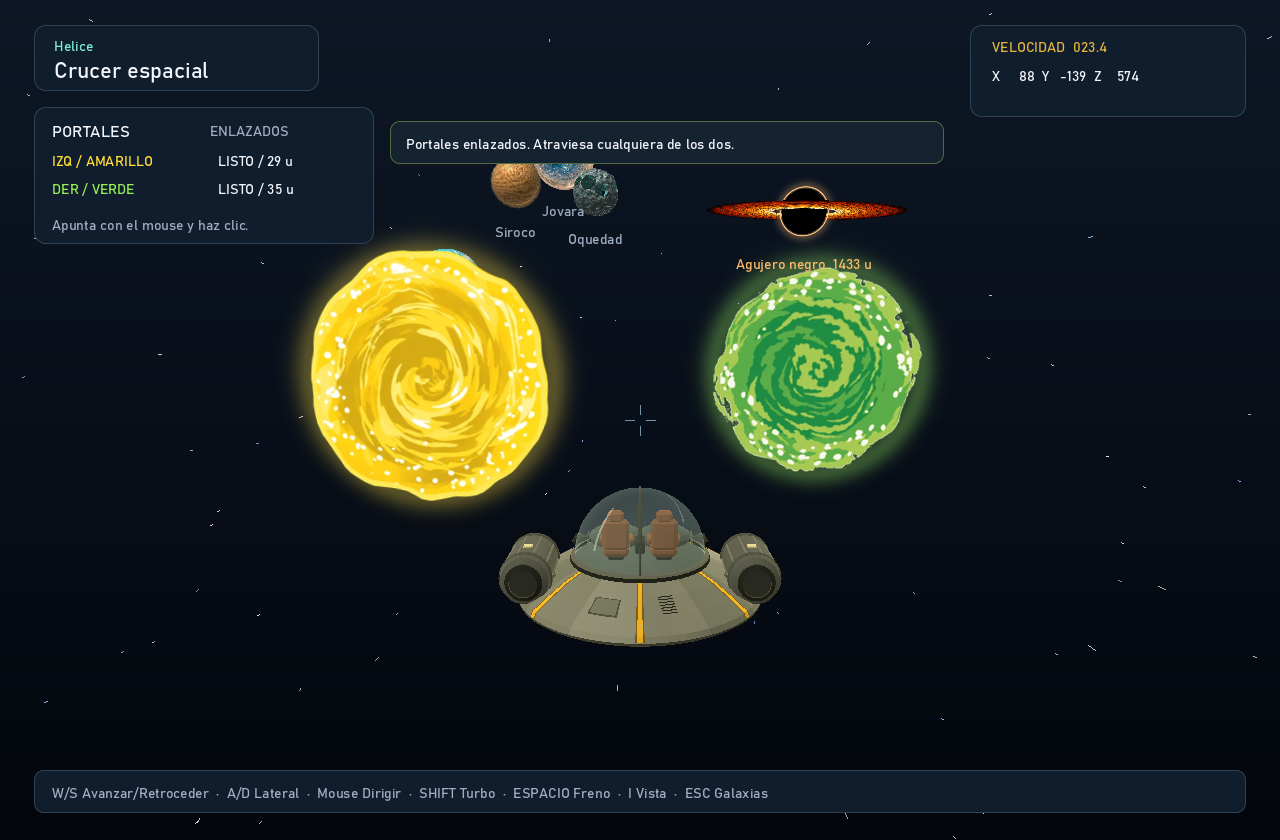
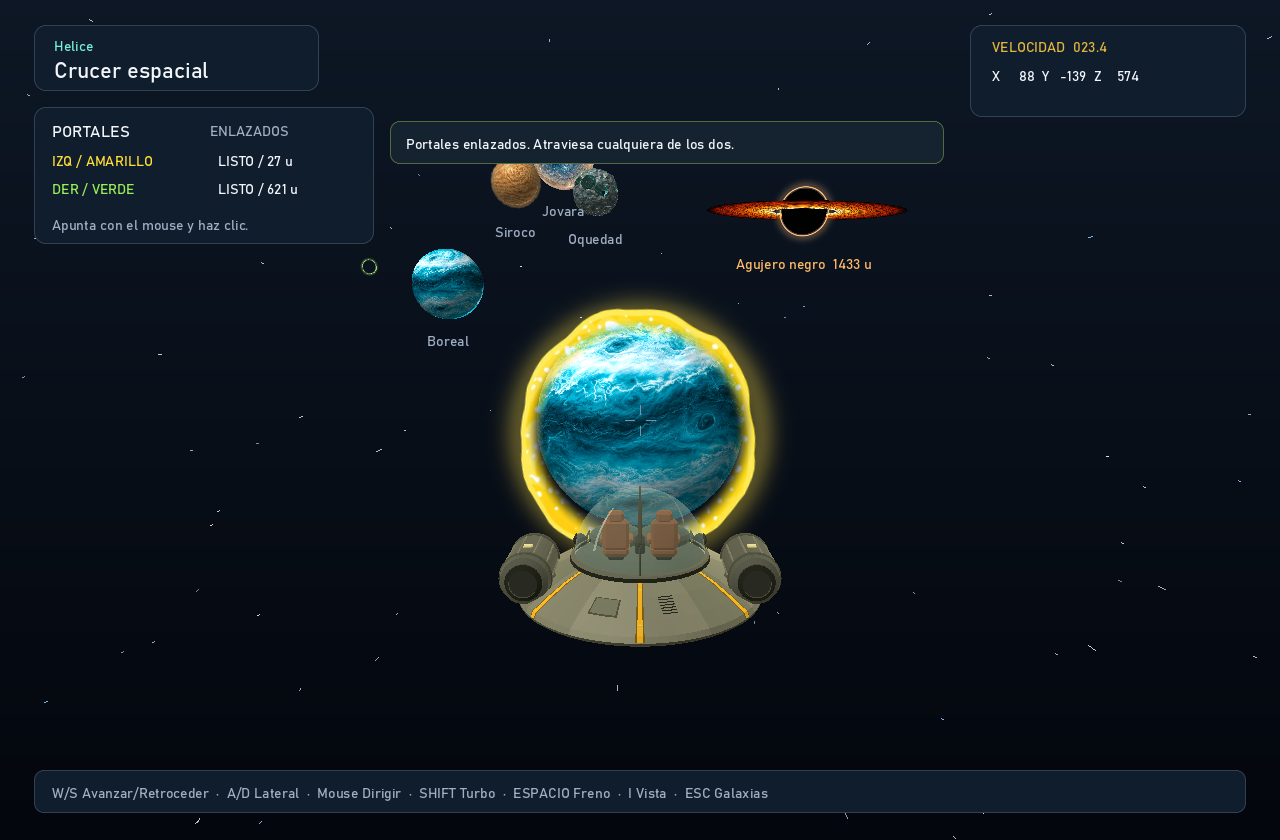
docs: actualiza la vista del destino y su captura de referencia

Changed region(s): [[0.2188, 0.2786, 0.75, 0.65]]

diff --git a/assets/portals/README.md b/assets/portals/README.md
@@ -1,6 +1,6 @@
 # Portales de Crucer espacial
 
-![Portales amarillo y verde en vuelo](previews/portales.png)
+![Boreal visto a través del portal amarillo](previews/portales.png)
 
 Crucer espacial es la única nave con esta habilidad. Durante el vuelo:
 
@@ -28,6 +28,27 @@ evita saltarse un portal al usar turbo o tener pocos FPS. Un margen de salida y
 0.4 segundos de espera evitan rebotes inmediatos. La distancia entre ambos portales
 se salta sin comprobar colisiones ni gravedad sobre ese trayecto inexistente.
 Las trayectorias reales de entrada y salida mantienen sus comprobaciones normales.
+
+## Vista del destino
+
+Cuando los dos colores están enlazados, cada portal funciona como una ventana
+hacia su salida. Muestra los planetas y sus superficies animadas, el cielo,
+asteroides, nubes de polvo, agujero negro y la nave si aparece en ese campo de
+visión. La perspectiva cambia al acercarse, desplazarse o girar ante el portal,
+también al mirarlo desde su cara posterior. Los bordes amarillo y verde mantienen
+las imágenes y animaciones de referencia. Un portal sin pareja conserva su remolino.
+
+La cámara virtual usa la misma transformación de posición y dirección que el
+teletransporte. El plano de salida recorta la geometría anterior al destino y la
+imagen se compone con la profundidad del portal de entrada para respetar los
+objetos que lo tapan. Ambas escenas usan el mismo instante de la simulación;
+renderizar la ventana no mueve la nave ni avanza la física.
+
+Cada vista remota solo renderiza el rectángulo que ocupa el portal en pantalla,
+con sus rayos originales y resolución completa. Los portales fuera del encuadre
+no generan esa vista. Se usa un nivel de vista remota: si se ve otro portal dentro
+de la ventana, ese portal muestra su remolino para limitar el costo de la recursión.
+La ventana no duplica el HUD, la mira ni los mensajes del vuelo.
 
 Los portales se conservan al inspeccionar la nave y su animación se pausa junto
 con el vuelo. Se eliminan al cambiar a otra nave, volver a destinos, iniciar otro
@@ -57,18 +78,28 @@ python scripts/prepare_portals.py --yellow "ruta/Portal_amarillo.webp" --green "
 
 ```powershell
 cargo run --release -- --render-flight output/portales.png --ship 3 --portal-demo --time 0.35
+cargo run --release -- --render-flight output/portal-boreal.png --ship 3 --portal-demo --target boreal --time 0.35
+cargo run --release -- --render-flight output/portal-kepler.png --ship 3 --galaxy 2 --portal-demo --target kepler-186f --time 0.35
 ```
 
 `--portal-demo` coloca ambos portales separados ante la cámara para revisar su
 aspecto con el mismo renderizador del juego. Solo acepta `--render-flight --ship 3`
 y no se combina con las opciones de inicio cercano a planetas o al agujero negro.
+Con `--target nombre` sitúa la salida cerca de ese planeta y centra la entrada
+ante la cámara, para revisar la vista del destino. El planeta debe existir en
+la galaxia seleccionada. Esta opción de demostración no cambia la colocación
+normal mediante clics.
 
 El renderizado intersecta cada píxel con el plano 3D del portal, calcula su UV en
 perspectiva, interpola color y alfa y compara la profundidad con los planetas y
 la nave. Un resplandor suave rodea los discos y un destello breve acompaña el salto.
-El interior usa el remolino de las imágenes; no muestra una cámara de la salida.
+El interior enlazado compone la cámara de salida y mezcla suavemente la imagen
+con el borde luminoso; los dos colores muestran su destino respectivo.
 
 `cargo test` comprueba cruce con turbo a 10 y 60 FPS, conservación de rapidez y
 rumbo, las dos caras y colores, límites de la abertura, recolocación, separación,
 espera entre saltos, bloqueo de salida, limpieza al reaparecer, cuadros del atlas,
-animación, perspectiva y oclusión por geometría en primer plano.
+animación, perspectiva y oclusión por geometría en primer plano. Las pruebas de
+vista del destino comprueban posición, orientación oblicua, paralaje, rayos del
+recorte, UV en el plano de salida, ambas caras, profundidad de composición y la
+animación real de Boreal sin avanzar el estado del vuelo.

diff --git a/README.md b/README.md
@@ -96,8 +96,11 @@ La cámara está detrás y ligeramente por encima de la nave, mirando de la cola
 para colocar el amarillo o derecho para el verde, a 32 unidades frente a la proa.
 Coloca los dos en lugares separados y atraviesa cualquiera para salir por el otro,
 conservando la rapidez y adaptando el rumbo a la salida. Otro clic recoloca solo
-ese color. El HUD muestra si están enlazados. Se eliminan al cambiar de nave,
-regresar a destinos o reaparecer; inspeccionar pausa y conserva los portales.
+ese color. Cuando están enlazados, el interior muestra en tiempo real el mundo
+desde la salida, con perspectiva que responde al movimiento de la cámara y el
+borde animado de cada color. El HUD muestra si están enlazados. Se eliminan al
+cambiar de nave, regresar a destinos o reaparecer; inspeccionar pausa y conserva
+los portales.
 Usan las imágenes amarilla y verde proporcionadas por el usuario, incluido el GIF
 animado. [Controles, reglas y procedencia de las imágenes](assets/portals/README.md).
 
@@ -161,6 +164,7 @@ cargo run --release -- --render-travel output/viaje.png --galaxy 2 --time 1.4
 cargo run --release -- --render-inspector output/crucer-espacial.png --ship 3
 cargo run --release -- --render-flight output/vuelo.png --ship 1
 cargo run --release -- --render-flight output/portales.png --ship 3 --portal-demo --time 0.35
+cargo run --release -- --render-flight output/portal-boreal.png --ship 3 --portal-demo --target boreal --time 0.35
 cargo run --release -- --render-flight output/umbria.png --galaxy 3
 cargo run --release -- --render-flight output/giro.png --ship 2 --time 2 --mouse 0.65 -0.35
 cargo run --release -- --render-planet output/boreal.png --target boreal
